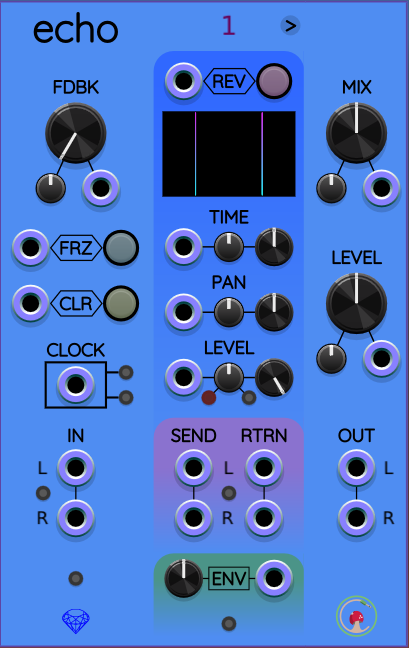
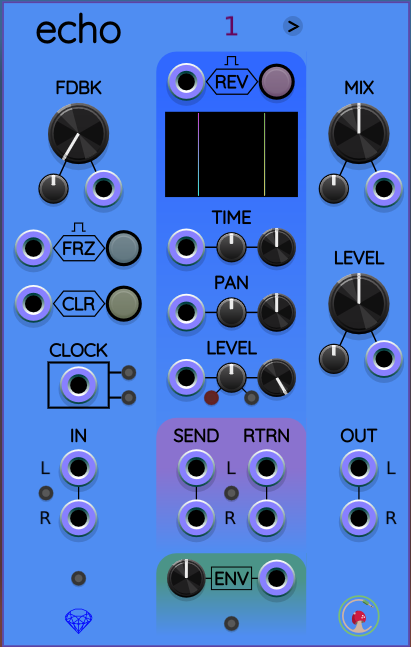
Echo: documented trigger/gate input toggle.

diff --git a/doc/Echo.md b/doc/Echo.md
@@ -82,7 +82,15 @@ New taps are cloned from the one you used to add them, copying its settings for 
 Each tap has a REV button to reverse the playback direction for that specific tap.
 By default, REV does not enter the feedback path—it only affects playback from that tap.
 
-REV has a gate input (high = reversed), and you can switch it to trigger mode via the context menu or right-clicking the input. If you click the REV button, the gate input must be low for the tap's audio output to be reversed. See [Exclusive-OR logic on toggle buttons](#exclusive-or-xor-logic-on-toggle-buttons) for more details.
+REV has an input port that can be placed in either gate mode (high = reversed) or trigger mode (each trigger toggles). The mode is indicated by a symbol above the REV label. When in gate mode, the port looks like this:
+
+![gate input mode](images/echo_gate_mode.png)
+
+Click on the symbol itself to toggle to trigger mode:
+
+![trigger input mode](images/echo_trigger_mode.png)
+
+If you click the REV button, the gate input must be low for the tap's audio output to be reversed. See [Exclusive-OR logic on toggle buttons](#exclusive-or-xor-logic-on-toggle-buttons) for more details.
 
 You can click the REV label to switch to FLP mode (Flip).
 Flip behaves differently—it reverses the signal within the feedback loop, not just on playback.
